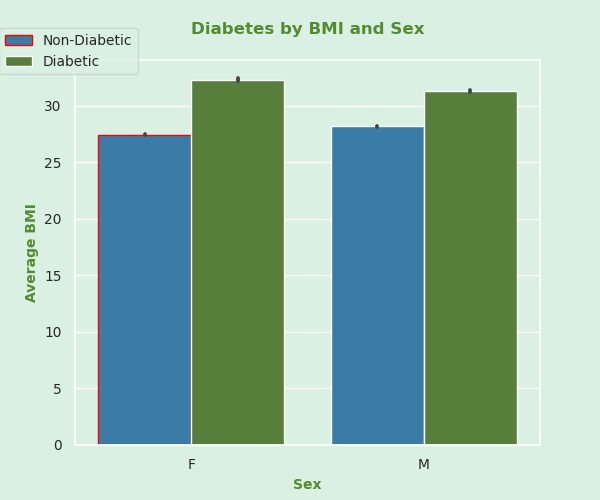
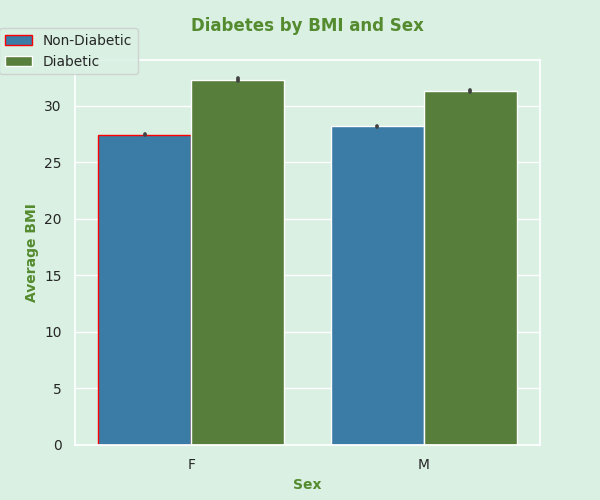
added unique_id

Changed region(s): [[0.3, 0.03, 0.72, 0.09], [0.12, 0.06, 0.21, 0.09]]

diff --git a/frontend/templates/home.html b/frontend/templates/home.html
@@ -3,10 +3,11 @@
         <meta charset="UTF-8">
         <title>Wotosuga - Home</title>
         <body>
-            <h1 style="text-align: center;">Welcome to WO'TOSUGA</h1>
+            <header>
+                <p id='logo'>WO'TOSUGA</p>
+                <p id='dev'>maradeben</p>
             <button onclick="location.href='/predict';">Go to Predictions</button>
-            <!-- <form action="/predict">
-                <button>Go to Predictons</button>
-            </form> -->
+            {% block content %}
+            {% endblock %}
         </body>
     </html>

diff --git a/backend/utils/plots.py b/backend/utils/plots.py
@@ -30,7 +30,7 @@ sex_encodings = ['F', 'M']
 age_encodings = age_encodings
 
 
-def plot_bmi_dist(bmi):
+def plot_bmi_dist(bmi, id):
     """ Plot BMI distribution
 
     Args:
@@ -40,7 +40,7 @@ def plot_bmi_dist(bmi):
         (fig, save_path) (plt.figure, str(path where file is saved))
     """
 
-    fig = plt.figure(figsize=(6,5))
+    fig = plt.figure(figsize=(5,4))
     bins = np.arange(df.BMI.min(), df.BMI.max()+1, 1)
     plt.hist(data=df, x='BMI', bins=bins);
     plt.bar(x=bmi, height=28000, width=.3, color='red', hatch='/')
@@ -52,12 +52,12 @@ def plot_bmi_dist(bmi):
     plt.xlabel('BMI', fontdict=axes_style)
     plt.ylabel('Frequency', fontdict=axes_style)
 
-    save_path = "charts/bmi_dist.png"
-    plt.savefig(os.path.join(static_dir, save_path))
+    save_path = f"charts/{id}-bmi_dist.jpg"
+    plt.savefig(os.path.join(static_dir, save_path), dpi=200)
 
     return (fig, save_path)
 
-def plot_diag_by_bmi_sex(diag, sex):
+def plot_diag_by_bmi_sex(diag, sex, id):
     """ Plot diagnosis by BMI and Sex
 
     Args:
@@ -68,7 +68,7 @@ def plot_diag_by_bmi_sex(diag, sex):
         figure(plt.figure)
     """
 
-    fig = plt.figure(figsize=(6,5))
+    fig = plt.figure(figsize=(5,4))
     g = sns.barplot(data=df, x='Sex', y='BMI', hue='Diabetes_01');
 
     idx = 0
@@ -92,8 +92,8 @@ def plot_diag_by_bmi_sex(diag, sex):
     for t,l in zip(g.legend_.texts, diab_bin_encodings):
         t.set_text(l)
     
-    save_path = "charts/diag_bmi_sex.png"
-    plt.savefig(os.path.join(static_dir, save_path))
+    save_path = f"charts/{id}-diag_bmi_sex.jpg"
+    plt.savefig(os.path.join(static_dir, save_path), dpi=200)
     
     return (fig, save_path)
 
@@ -114,7 +114,7 @@ def categorize_bmi(value):
     elif value>=40.0:
         return 5
 
-def plot_bmi_category(bmi):
+def plot_bmi_category(bmi, id):
     """ Categorize BMI
 
     Arg:
@@ -125,7 +125,7 @@ def plot_bmi_category(bmi):
     """
 
     df['BMICategory'] = df.BMI.apply(categorize_bmi)
-    fig=plt.figure(figsize=(6,5))
+    fig=plt.figure(figsize=(5,4))
     g = sns.countplot(data=df, y='BMICategory', color=primary, orient='h', order = [5,4,3,2,1]);
 
     g.patches[5 - (categorize_bmi(bmi))].set_edgecolor('red')
@@ -136,8 +136,8 @@ def plot_bmi_category(bmi):
     plt.ylabel('');
     plt.title('BMI Categories', fontdict=title_style);
 
-    save_path = "charts/bmi_cat.png"
-    plt.savefig(os.path.join(static_dir, save_path))
+    save_path = f"charts/{id}-bmi_cat.jpg"
+    plt.savefig(os.path.join(static_dir, save_path), dpi=200)
 
     return (fig, save_path)
 

diff --git a/backend/utils/result_generator.py b/backend/utils/result_generator.py
@@ -1,7 +1,7 @@
 #!/usr/bin/python3
 """ Handles generation of result and creating of the pdf file """
 
-from backend.utils import plots
+from backend.utils import plots;
 from backend.models.predictor import get_prediction, preprocess
 
 
@@ -11,9 +11,9 @@ def generate_results(data):
     name = data['Name']
     diag = "Diabetic" if get_prediction(data) else "Non-diabetic"
     bmi = preprocess(data)['BMI']
-    diag_plot = plots.plot_diag_by_bmi_sex(diag, data['Sex'])[1]
-    bmi_cat_plot = plots.plot_bmi_category(bmi)[1]
-    bmi_dist_plot = plots.plot_bmi_dist(bmi)[1]
+    diag_plot = plots.plot_diag_by_bmi_sex(diag, data['Sex'], data['id'])[1]
+    bmi_cat_plot = plots.plot_bmi_category(bmi, data['id'])[1]
+    bmi_dist_plot = plots.plot_bmi_dist(bmi, data['id'])[1]
 
     results = {
         "name": name,
@@ -27,9 +27,11 @@ def generate_results(data):
     return (results)
 
 if __name__=="__main__":
+    import uuid
     data = {
         "Name": "Jane Doe", "HighBP": 1, "HighChol": 1, "Height": 2.0, "Weight": 87.0,
         "SticksDay": 10, "YearsSmoked": 12, "HeartDiseaseorAttack": 1, "PhysActivity": 1,
         "Fruits": 1, "Veggies": 0, "HvyAlcoholConsump": 1, "GenHlth": 2, "MentHlth": 23,
-        "PhysHlth": 27, "DiffWalk": 1, "Age": 45, "Education": 5, "Income": 5, "Stroke":0, "Sex":1}
+        "PhysHlth": 27, "DiffWalk": 1, "Age": 45, "Education": 5, "Income": 5, "Stroke":0, "Sex":1, id: uuid.uuid(4)}
+    print(id)
     print(type(generate_results(data)))

diff --git a/backend/models/schemas.py b/backend/models/schemas.py
@@ -4,6 +4,7 @@ FormData: form data schema, as gotten from the predictions form
 """
 from dataclasses import dataclass
 from fastapi import Form
+import uuid
 
 # define schema for form data
 @dataclass
@@ -11,6 +12,7 @@ class FormData:
     """ This class defines the schema for the form data
     associated with the prediction form
     """
+    id:                        str= uuid.uuid4()
     Name:                   str = Form(...)
     HighBP:                 int = Form(...)
     HighChol:               int = Form(...)
